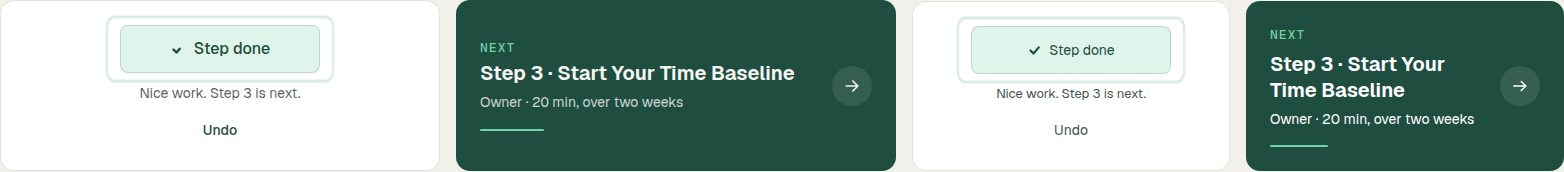
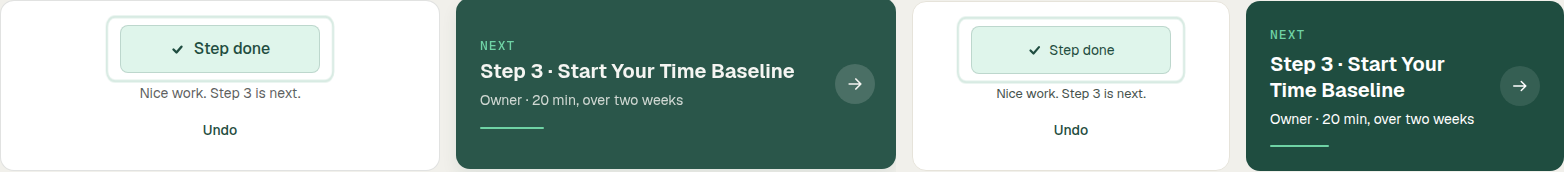
Match the step header, play mark, and checkbox halo to the mockup.
The goal is a builder field, the progress count sits on the track, Watch shows the file's length, and the checkbox halo is the 4px forest wash.

diff --git a/apps/web/src/routes/learn/Checklist.tsx b/apps/web/src/routes/learn/Checklist.tsx
@@ -13,7 +13,7 @@ import { KnowCard, Marked } from './Glossary';
 import { StartHereCard } from './StartHere';
 import { LABELS } from './learn.vm';
 import type { StartHereVM } from './Week.vm';
-import { PLATFORM_LABEL, STEP } from './Step.vm';
+import { PLATFORM_LABEL, STEP, watchLength } from './Step.vm';
 import type { AccordionVM, CalloutVM, CheckActionVM, CheckItemVM, ChecklistLayoutVM, PillVM, StepVM } from './Step.vm';
 import s from './Checklist.module.css';
 import l from './Learn.module.css';
@@ -246,7 +246,7 @@ function Item({
             {item.action ? <Action action={item.action} /> : null}
             {item.playSeconds !== null && item.playLabel ? (
               <button type="button" className={`${l.b} ${l.bi} ${s.act}`} onClick={() => onPlay(item.playSeconds!, item.playVideo)}>
-                <Icon name="r2Play" size={14} strokeWidth={1.75} />
+                <Icon name="play" size={14} filled />
                 {item.playLabel}
               </button>
             ) : null}
@@ -346,6 +346,7 @@ export function ChecklistPlayer({
   const [confirm, setConfirm] = useState<{ ids: string[]; stepN: number } | null>(null);
   const [undo, setUndo] = useState(false);
   const [celebrating, setCelebrating] = useState(false);
+  const [watchLen, setWatchLen] = useState<number | null>(null);
   const titleId = useId();
   const pops = useRef<ReturnType<typeof setTimeout>[]>([]);
   useEffect(() => () => {
@@ -510,7 +511,7 @@ export function ChecklistPlayer({
     void mutate('setPref', { key, value: open ? '1' : '0' });
   };
 
-  const pct = layout.progress.total ? Math.round((layout.progress.done / layout.progress.total) * 100) : 0;
+  const pct = layout.progress.total ? layout.progress.done / layout.progress.total : 0;
 
   return (
     <div className={s.main}>
@@ -546,7 +547,7 @@ export function ChecklistPlayer({
         {layout.progress.total ? (
           <div className={s.barWrap}>
             <div className={s.bar} role="progressbar" aria-valuemin={0} aria-valuemax={layout.progress.total} aria-valuenow={layout.progress.done} aria-label={layout.progress.label}>
-              <i style={{ width: `${pct}%` }} />
+              <i style={{ ['--pct' as string]: String(pct) }} />
             </div>
             <p className={s.barL}>{layout.progress.label}</p>
           </div>
@@ -557,9 +558,12 @@ export function ChecklistPlayer({
 
       {layout.videos.length ? (
         <section id="step-watch" aria-labelledby="step-watch-h">
-          <h2 id="step-watch-h">{STEP.watch}</h2>
+          <h2 id="step-watch-h">
+            {STEP.watch}
+            {watchLen != null ? <small>{watchLength(watchLen)}</small> : null}
+          </h2>
           {layout.videos.map((block, i) => (
-            <VideoView key={i} block={block} watch={watch} />
+            <VideoView key={i} block={block} watch={watch} onDuration={i === 0 ? setWatchLen : undefined} />
           ))}
         </section>
       ) : null}
@@ -603,7 +607,7 @@ export function ChecklistPlayer({
           </button>
           {layout.gate.reason ? <p className={s.why}>{layout.gate.reason}</p> : null}
           {vm.mark.done && undo ? (
-            <button type="button" className={`${l.b} ${l.bq}`} onClick={() => void mark()}>
+            <button type="button" className={`${l.b} ${s.undo}`} onClick={() => void mark()}>
               {STEP.undo}
             </button>
           ) : null}

diff --git a/apps/web/src/routes/learn/Checklist.module.css b/apps/web/src/routes/learn/Checklist.module.css
@@ -161,12 +161,18 @@
   text-transform: uppercase;
   color: var(--r2-for);
 }
+.head {
+  display: flex;
+  flex-direction: column;
+  gap: 8px;
+  max-width: 760px;
+}
 .purpose {
-  margin: 0 0 12px;
-  max-width: 720px;
-  font-size: 17px;
-  line-height: 1.5;
-  color: var(--r2-ink);
+  margin: 0;
+  max-width: 65ch;
+  font-size: 20px;
+  line-height: 1.45;
+  color: color-mix(in srgb, var(--r2-ink) 68%, transparent);
 }
 .hrow {
   display: flex;
@@ -186,34 +192,55 @@
   margin-left: auto;
 }
 .barWrap {
-  margin-top: 14px;
+  margin-top: 16px;
+  display: flex;
+  align-items: center;
+  gap: 16px;
 }
 .bar {
+  flex: 1;
   height: 6px;
-  background: var(--r2-tint);
-  border-radius: 6px;
+  background: color-mix(in srgb, var(--r2-ink) 8%, transparent);
+  border-radius: 999px;
   overflow: hidden;
 }
 .bar > i {
   display: block;
+  width: 100%;
   height: 100%;
   background: var(--r2-energy);
-  border-radius: 6px;
-  transition: width 300ms cubic-bezier(0.2, 0.8, 0.2, 1);
+  border-radius: inherit;
+  transform: scaleX(var(--pct, 0));
+  transform-origin: left;
+  transition: transform 450ms cubic-bezier(0.2, 0.7, 0.2, 1);
 }
 .barL {
-  margin: 6px 0 0;
-  font-size: var(--r2-fs-13);
-  color: var(--r2-f2);
+  margin: 0;
+  min-width: 96px;
+  font-size: var(--fs-14);
+  font-weight: 500;
+  line-height: 1;
+  text-align: right;
+  color: color-mix(in srgb, var(--r2-ink) 68%, transparent);
 }
 
 .main h2 {
   margin: 0 0 16px;
+  display: flex;
+  align-items: baseline;
+  gap: 8px;
   font-size: 25px;
   font-weight: 650;
   line-height: 1.2;
   letter-spacing: -0.01em;
   color: var(--r2-ink);
+}
+.main h2 small {
+  font-size: var(--fs-14);
+  font-weight: 500;
+  line-height: 1;
+  letter-spacing: 0;
+  color: color-mix(in srgb, var(--r2-ink) 68%, transparent);
 }
 
 .previewNote,
@@ -282,22 +309,24 @@
   width: 22px;
   height: 22px;
   border-radius: 6px;
+  border: 1.5px solid color-mix(in srgb, var(--r2-ink) 35%, transparent);
   background: var(--r2-sf);
-  box-shadow: inset 0 0 0 1.5px var(--r2-line2);
+  box-shadow: none;
   display: grid;
   place-items: center;
 }
 .box[data-on='true'] {
   background: var(--r2-energy);
+  border-color: var(--r2-energy);
   box-shadow: none;
   color: var(--r2-on-energy);
 }
 .boxBtn:hover .box {
-  box-shadow:
-    inset 0 0 0 2px var(--r2-for),
-    0 0 0 4px color-mix(in srgb, var(--r2-for) 6%, transparent);
+  border-color: var(--r2-for);
+  box-shadow: 0 0 0 4px color-mix(in srgb, var(--r2-for) 6%, transparent);
 }
 .boxBtn:hover .box[data-on='true'] {
+  border-color: var(--r2-energy);
   box-shadow: 0 0 0 4px color-mix(in srgb, var(--r2-for) 6%, transparent);
 }
 .boxBtn:active .box {
@@ -607,6 +636,24 @@
   color: var(--r2-f2);
   text-align: center;
 }
+.mark button.undo {
+  height: 32px;
+  padding: 0 12px;
+  border-color: transparent;
+  background: transparent;
+  box-shadow: none;
+  color: var(--r2-for);
+  font-size: var(--fs-14);
+  font-weight: 500;
+}
+.mark button.undo:hover,
+.mark button.undo:active {
+  background: color-mix(in srgb, var(--r2-for) 6%, transparent);
+  color: var(--r2-for);
+  border-color: transparent;
+  box-shadow: none;
+  transform: none;
+}
 .next {
   position: relative;
   display: flex;
@@ -903,7 +950,6 @@
     flex-wrap: nowrap;
     overflow-x: auto;
   }
-  .purpose { font-size: 16px; }
 }
 
 @media (prefers-reduced-motion: reduce) {

diff --git a/apps/web/src/routes/admin/WeekBuilder.tsx b/apps/web/src/routes/admin/WeekBuilder.tsx
@@ -782,7 +782,7 @@ const checkIds = (step: Step): string[] =>
 /** The step dialog's course fields, for a week's step. */
 export function StepWeekFields({ step, onChange, picks }: { step: Step; onChange: (fn: (st: Step) => void) => void; picks?: Omit<BlockPicks, 'ids'> }) {
   const opt = (v: string): string | undefined => (v.trim() ? v : undefined);
-  const setOpt = <K extends 'who' | 'timeLabel' | 'doneWhen' | 'linkedSkill'>(key: K, v: string) =>
+  const setOpt = <K extends 'who' | 'timeLabel' | 'doneWhen' | 'goal' | 'linkedSkill'>(key: K, v: string) =>
     onChange((st) => {
       const x = opt(v);
       if (x === undefined) delete st[key];
@@ -802,6 +802,7 @@ export function StepWeekFields({ step, onChange, picks }: { step: Step; onChange
       <Line label="Who" value={step.who ?? ''} hint="Owner, Operator, Each of you" onChange={(v) => setOpt('who', v)} />
       <Line label="Time" value={step.timeLabel ?? ''} hint="20 min" onChange={(v) => setOpt('timeLabel', v)} />
       <Para label="Done when" value={step.doneWhen ?? ''} onChange={(v) => setOpt('doneWhen', v)} />
+      <Para label="Goal" value={step.goal ?? ''} hint="The paragraph under the step title." onChange={(v) => setOpt('goal', v)} />
       <Line label="Linked skill" value={step.linkedSkill ?? ''} hint="The Library route, like map-your-spend. Separate more than one with commas." onChange={(v) => setOpt('linkedSkill', v)} />
       <label className={clsx(k.row, k.nw, w.check)}>
         <input

diff --git a/apps/web/src/routes/learn/Step.vm.test.ts b/apps/web/src/routes/learn/Step.vm.test.ts
@@ -4,7 +4,7 @@ import { setViewerZone } from '@ai/core';
 import { learnerOf } from '@ai/core/learner';
 import type { PathBlock } from '@ai/core/course-types';
 import { weekRows } from './learn.vm';
-import { stepParam, stepVM } from './Step.vm';
+import { stepParam, stepVM, watchLength } from './Step.vm';
 import { LEARNER_ID, liveState, prelaunchState } from './test/fixture';
 
 beforeEach(() => setViewerZone('America/Denver'));
@@ -30,6 +30,16 @@ describe('the step player (D-177)', () => {
     expect(vm.doneWhen).toMatch(/^Done when: Paid plan/);
     expect(vm.paths.claude![0]).toMatchObject({ type: 'list', items: expect.arrayContaining(['A paid Claude plan']) });
     expect(vm.paths.chatgpt![0]).toMatchObject({ type: 'list', items: expect.arrayContaining(['A paid ChatGPT plan']) });
+  });
+
+  it('step 2’s goal is the paragraph under the title, and a video length reads in minutes and seconds', () => {
+    const vm = stepVM(st.payload, rows[0], 2, learner, st.now);
+    if (vm.kind !== 'step') throw new Error('missing');
+    expect(vm.title).toBe('Watch the Orientation');
+    expect(vm.lede).toBe('The goal of this step is that both of you know how a week runs and what an AI hire is before we start building. Watch it together if you can.');
+    expect(watchLength(7 * 60 + 49)).toBe('7 min 49 s');
+    expect(watchLength(120)).toBe('2 min');
+    expect(watchLength(2)).toBe('2 s');
   });
 
   it('a step with no paths has no tabs', () => {

diff --git a/apps/web/src/routes/learn/Step.vm.ts b/apps/web/src/routes/learn/Step.vm.ts
@@ -103,6 +103,16 @@ export const STEP = {
 const ROLE_LABEL: Record<string, string> = { owner: 'Owner', operator: 'Operator', each: 'Each of you' };
 const CALLOUT_LABEL = { tip: STEP.tip, heads_up: STEP.headsUp, diy: STEP.diy } as const;
 
+/** A video's length beside Watch: "7 min 49 s", "2 min", or "8 s". */
+export function watchLength(seconds: number): string {
+  const total = Math.max(0, Math.round(seconds));
+  const m = Math.floor(total / 60);
+  const sec = total % 60;
+  if (m === 0) return `${sec} s`;
+  if (sec === 0) return `${m} min`;
+  return `${m} min ${sec} s`;
+}
+
 export type Platform = 'claude' | 'chatgpt';
 export const PLATFORM_LABEL: Record<Platform, string> = { claude: 'Claude', chatgpt: 'ChatGPT' };
 
@@ -335,7 +345,7 @@ export function stepVM(p: CoursePayload, r: WeekRow | undefined, n: number | nul
     }),
     eyebrow: `${LABELS.step} ${s.n} ${STEP.of} ${r.total}`,
     title: stepTitle(s),
-    lede: stepText(s),
+    lede: s.step.goal?.trim() || stepText(s),
     meta: stepMeta(s, w.module.platform || null),
     doneWhen: s.step.doneWhen ? `${STEP.doneWhen} ${s.step.doneWhen}` : null,
     // An older week's tip, when the step has no Who or Time of its own (the new weeks' hint repeats them).

diff --git a/apps/web/src/routes/learn/Video.tsx b/apps/web/src/routes/learn/Video.tsx
@@ -36,7 +36,7 @@ export interface VideoWatch {
 
 const GAP_S = 1.25;
 
-export function VideoView({ block, watch }: { block: VideoBlock; watch?: VideoWatch }) {
+export function VideoView({ block, watch, onDuration }: { block: VideoBlock; watch?: VideoWatch; onDuration?: (seconds: number) => void }) {
   const source = videoBlockSource(block, courseVideoUrl);
   const video = useRef<HTMLVideoElement | null>(null);
   const [failed, setFailed] = useState(false);
@@ -185,7 +185,10 @@ export function VideoView({ block, watch }: { block: VideoBlock; watch?: VideoWa
       preload="metadata"
       onLoadedMetadata={(e) => {
         const d = e.currentTarget.duration;
-        setDuration(Number.isFinite(d) && d > 0 ? d : null);
+        if (Number.isFinite(d) && d > 0) {
+          setDuration(d);
+          onDuration?.(d);
+        } else setDuration(null);
       }}
       aria-label={title ?? STEP.video}
       data-video-block=""

diff --git a/packages/core/seed/weeks-0-3-v2.ts b/packages/core/seed/weeks-0-3-v2.ts
@@ -406,7 +406,10 @@ export const WEEKS_0_3: readonly CourseWeek[] = [
       // Eight steps, the spec's. Times are the spec's; Who, Time and Done When ride on each step too.
       checklist: WEEK0_STEPS.map((s) => {
         const paths = week0Paths(s.n);
-        return S(s.doneWhen, s.step, parseInt(s.time, 10), 0, `${s.who}. ${s.time}.`, { who: s.who, timeLabel: s.time, doneWhen: s.doneWhen, ...(paths ? { paths } : {}) });
+        const goal = s.n === 2
+          ? 'The goal of this step is that both of you know how a week runs and what an AI hire is before we start building. Watch it together if you can.'
+          : undefined;
+        return S(s.doneWhen, s.step, parseInt(s.time, 10), 0, `${s.who}. ${s.time}.`, { who: s.who, timeLabel: s.time, doneWhen: s.doneWhen, ...(goal ? { goal } : {}), ...(paths ? { paths } : {}) });
       }),
     },
   },

diff --git a/packages/core/src/types.ts b/packages/core/src/types.ts
@@ -24,6 +24,8 @@ export type StepKind = 'Watch' | 'Read' | 'Build' | 'Check' | 'Ship';
 export interface Step {
   id: string; text: string; ch: string; mins: number; t: number; hint: string; kind?: StepKind;
   who?: string; timeLabel?: string; doneWhen?: string; paths?: StepPaths; linkedSkill?: string; openInPreview?: boolean;
+  /** The paragraph under the step title. Absent on a step that has none. */
+  goal?: string;
 }
 export interface SkillFile { name: string; type: 'JSON' | 'YAML' | 'Notion'; size: string; desc: string; steps: string[] }
 export interface ModuleResource { name: string; type: string; size: string }

diff --git a/packages/core/src/course-rules.ts b/packages/core/src/course-rules.ts
@@ -267,6 +267,7 @@ export function moduleCopyFields(m: AIEmployee): CopyField[] {
     push(out, `${p}.who`, `${l}, who`, s.who);
     push(out, `${p}.timeLabel`, `${l}, time`, s.timeLabel);
     push(out, `${p}.doneWhen`, `${l}, done when`, s.doneWhen);
+    push(out, `${p}.goal`, `${l}, goal`, s.goal);
     blockFields(out, `${p}.paths.claude.blocks`, `${l}, Claude path`, s.paths?.claude?.blocks);
     blockFields(out, `${p}.paths.chatgpt.blocks`, `${l}, ChatGPT path`, s.paths?.chatgpt?.blocks);
   });

diff --git a/apps/api/src/routes/schemas.ts b/apps/api/src/routes/schemas.ts
@@ -339,6 +339,7 @@ const step = z.strictObject({
   who: z.string().optional(),
   timeLabel: z.string().optional(),
   doneWhen: z.string().optional(),
+  goal: z.string().optional(),
   paths: stepPaths.optional(),
   linkedSkill: z.string().optional(),
   openInPreview: z.boolean().optional(),

diff --git a/DECISIONS.md b/DECISIONS.md
@@ -6786,6 +6786,9 @@ CLAUDE.md says this file only grows with explicit human approval, and this is it
 
 - **Ring.** Marking the step done plays one energy ring on that button: opacity 0.85 at scale 1, fading out to scale 1.18 by 1.5, over 600ms. It plays once.
 - **Check.** The checklist box and the Mark step done mark draw the check. The path is always in the box; checking it runs the stroke from empty to drawn.
-- **Done.** The button leaves the forest fill for a mint wash and forest text. The line under it reads `Nice work. Step N is next.` The next card's mint bar grows, and its arrow moves 3px right on hover.
+- **Done.** The button leaves the forest fill for a mint wash and forest text. The line under it reads `Nice work. Step N is next.` Undo is weight 500 in forest. The next card's mint bar grows, and its arrow moves 3px right on hover.
+- **Header.** The goal is a step field, edited in the Week Builder, and step 2's seed carries the mockup sentence. Under the chips, a 6px track and a right-aligned `N of M checked` share one row. `Watch` carries the video's length once the file reports it (`7 min 49 s`).
+- **Play.** The checklist `Play from` mark is the solid play glyph.
+- **Halo.** A checkbox hover sets the box border to forest and `box-shadow: 0 0 0 4px` of forest at 6%.
 - **Reduced motion.** The ring is not drawn. Hover does not lift or move the arrow. The colour change and the drawn check remain.
 - **Not changed.** The footer stays Mark step done beside the forest next card. No course copy, schema, or golden change.
